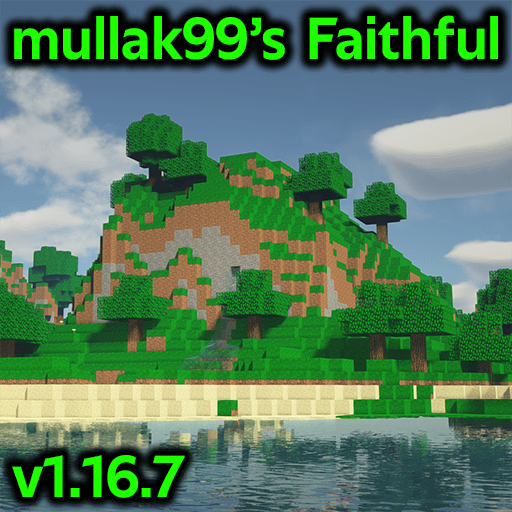
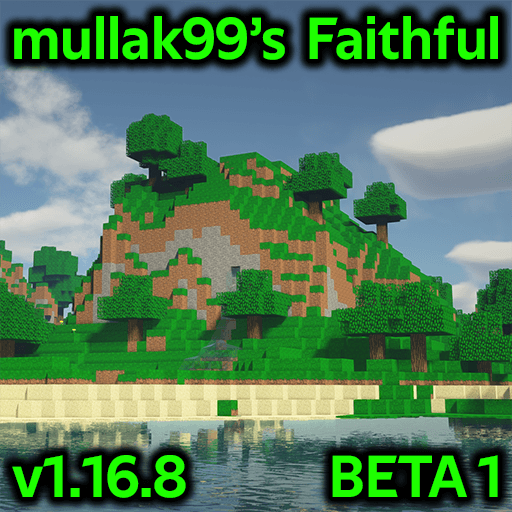
v1.16.8-BETA1
- Fixed Recipe Book textures (Missing furnace elements)
- Fixed Lava Bucket (inconsistent pixels)

Changed region(s): [[0.625, 0.8438, 1.0, 1.0], [0.2812, 0.8438, 0.4062, 1.0]]

diff --git a/README.md b/README.md
@@ -1,6 +1,6 @@
 # mullak99's Faithful 32x
 
-**Current Branch Version:** _v1.16.7_  
+**Current Branch Version:** _v1.16.8-BETA1_  
 
 ## Branch Breakdown
 
